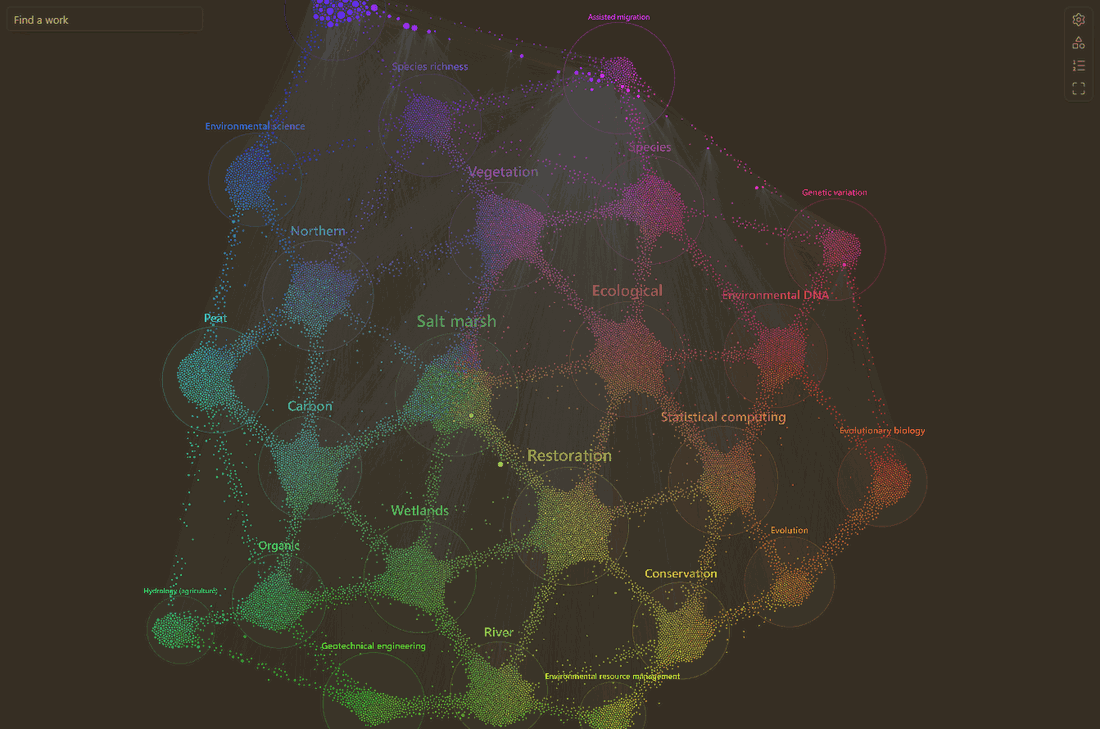
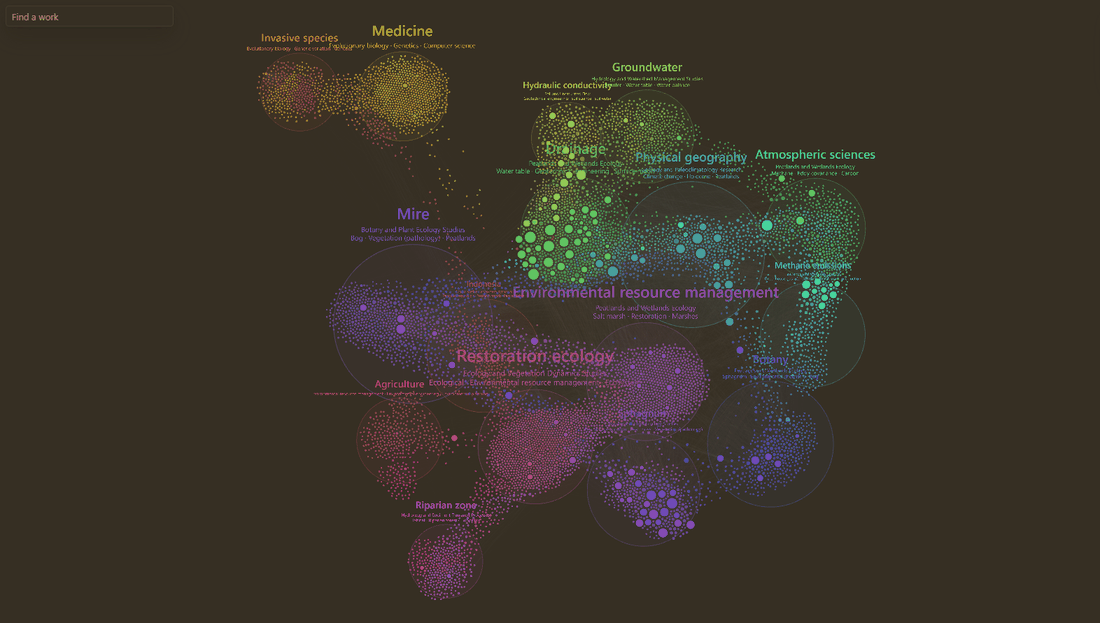
Start a meaning layout from the map when switching to it, and update the README images
Switching to the Meaning (or Meaning tree) layout from another one laid
the works out from the positions shown: from a dendrogram's ring, they
stayed mixed in one disc and never found their groups. On a switch, each
work now starts from its place on the map of meaning (not when the graph
opens: the saved places keep the map the user knows).

The README shows the Meaning layout and its regions as they are now, and
the Meaning tree and the Meaning dendrogram.

diff --git a/src/graphView.ts b/src/graphView.ts
@@ -390,6 +390,8 @@ export class LiteratureGraphView extends ItemView {
 	private namesMemo: { key: string; names: RegionName[] } | null = null;
 	/** Whether the layout running was given each work's nearest works in meaning (Meaning layout). */
 	private laidOutWithKin = false;
+	/** The style of the layout last started (see `show`). */
+	private laidOutStyle: LayoutStyle | null = null;
 	private meaningRun = 0;
 	private circleTexture: Texture | null = null;
 	private readonly labelsLayer = new Container();
@@ -1089,6 +1091,20 @@ export class LiteratureGraphView extends ItemView {
 					? this.dendrogramLinks()
 					: [],
 		);
+		// Entering the Meaning or Meaning tree layout from another one (not when the
+		// graph opens: the saved places then keep the map the user knows): each work
+		// starts from its place on the map. From the positions shown (a
+		// dendrogram's ring, another layout's clusters), the works stayed mixed
+		// in one disc and never found their groups.
+		if ((this.layoutStyle === 'meaning' || this.layoutStyle === 'tree') && this.laidOutStyle !== null && this.laidOutStyle !== this.layoutStyle && anchors) {
+			for (const node of this.nodes) {
+				const anchor = anchors[node.index];
+				if (!anchor) continue;
+				node.x = anchor[0] + (Math.random() - 0.5) * 20;
+				node.y = anchor[1] + (Math.random() - 0.5) * 20;
+			}
+		}
+		this.laidOutStyle = this.layoutStyle;
 		// Many works without their meaning yet: a loading screen; in the
 		// meaning layouts, the works wait for it (their places come from it),
 		// rather than being drawn and laid out for nothing.

diff --git a/README.md b/README.md
@@ -4,18 +4,22 @@ An Obsidian plugin for literature notes written in Markdown (for example, papers
 
 Explore how the works of your vault cite each other, and the works outside it that they cite, in a panel and a graph view of their own, built from the reference lists of your notes, from citation links and from OpenAlex.
 
-![The works of a vault and the works they cite, gathered in balls of one meaning](images/meaning.png)
+![The works of a vault and the works they cite, gathered by meaning](images/meaning.png)
 
-*About 20,000 works: 112 literature notes and the works they cite, colored and placed by what they are about (the **Meaning** layout). Works of one meaning gather in a ball; works between two meanings form bridges between their balls.*
+*About 10,000 works: 205 literature notes and the works they cite, colored and placed by what they are about (the **Meaning** layout). Works of one meaning gather in a ball; works between two meanings form bridges between the balls.*
 
 ![The same graph with the named regions of meaning](images/regions.png)
 
-*The same graph with **Regions** on: each group of meaning named by the term most typical of its works.*
+*The same graph with **Regions** on: each group of meaning named by the keyword nearest to its meaning, with its OpenAlex topic and its typical terms below.*
+
+| **Meaning tree**: each work joined to the works most alike it | **Meaning dendrogram**: groups, subgroups, then works |
+|---|---|
+| ![The semantic tree of the works](images/tree.png) | ![A radial dendrogram of the groups of meaning](images/dendrogram.png) |
 
 | Hover a work to see what it cites | Islands: communities of citations |
 |---|---|
 | ![A work of the vault highlighted with the works it cites](images/hover.png) | ![Communities of citations as islands](images/islands.png) |
-| **Atom graph**: each note with the works it cites around it | **Layers**: the vault in the middle, then each depth |
+| **Atom graph**: each note with the works it cites around it | **Layers**: the vault in the middle, the works it cites around it |
 | ![Atom graph](images/atom.png) | ![Layers](images/layers.png) |
 
 When you leave it alone, the graph turns into an animation:
